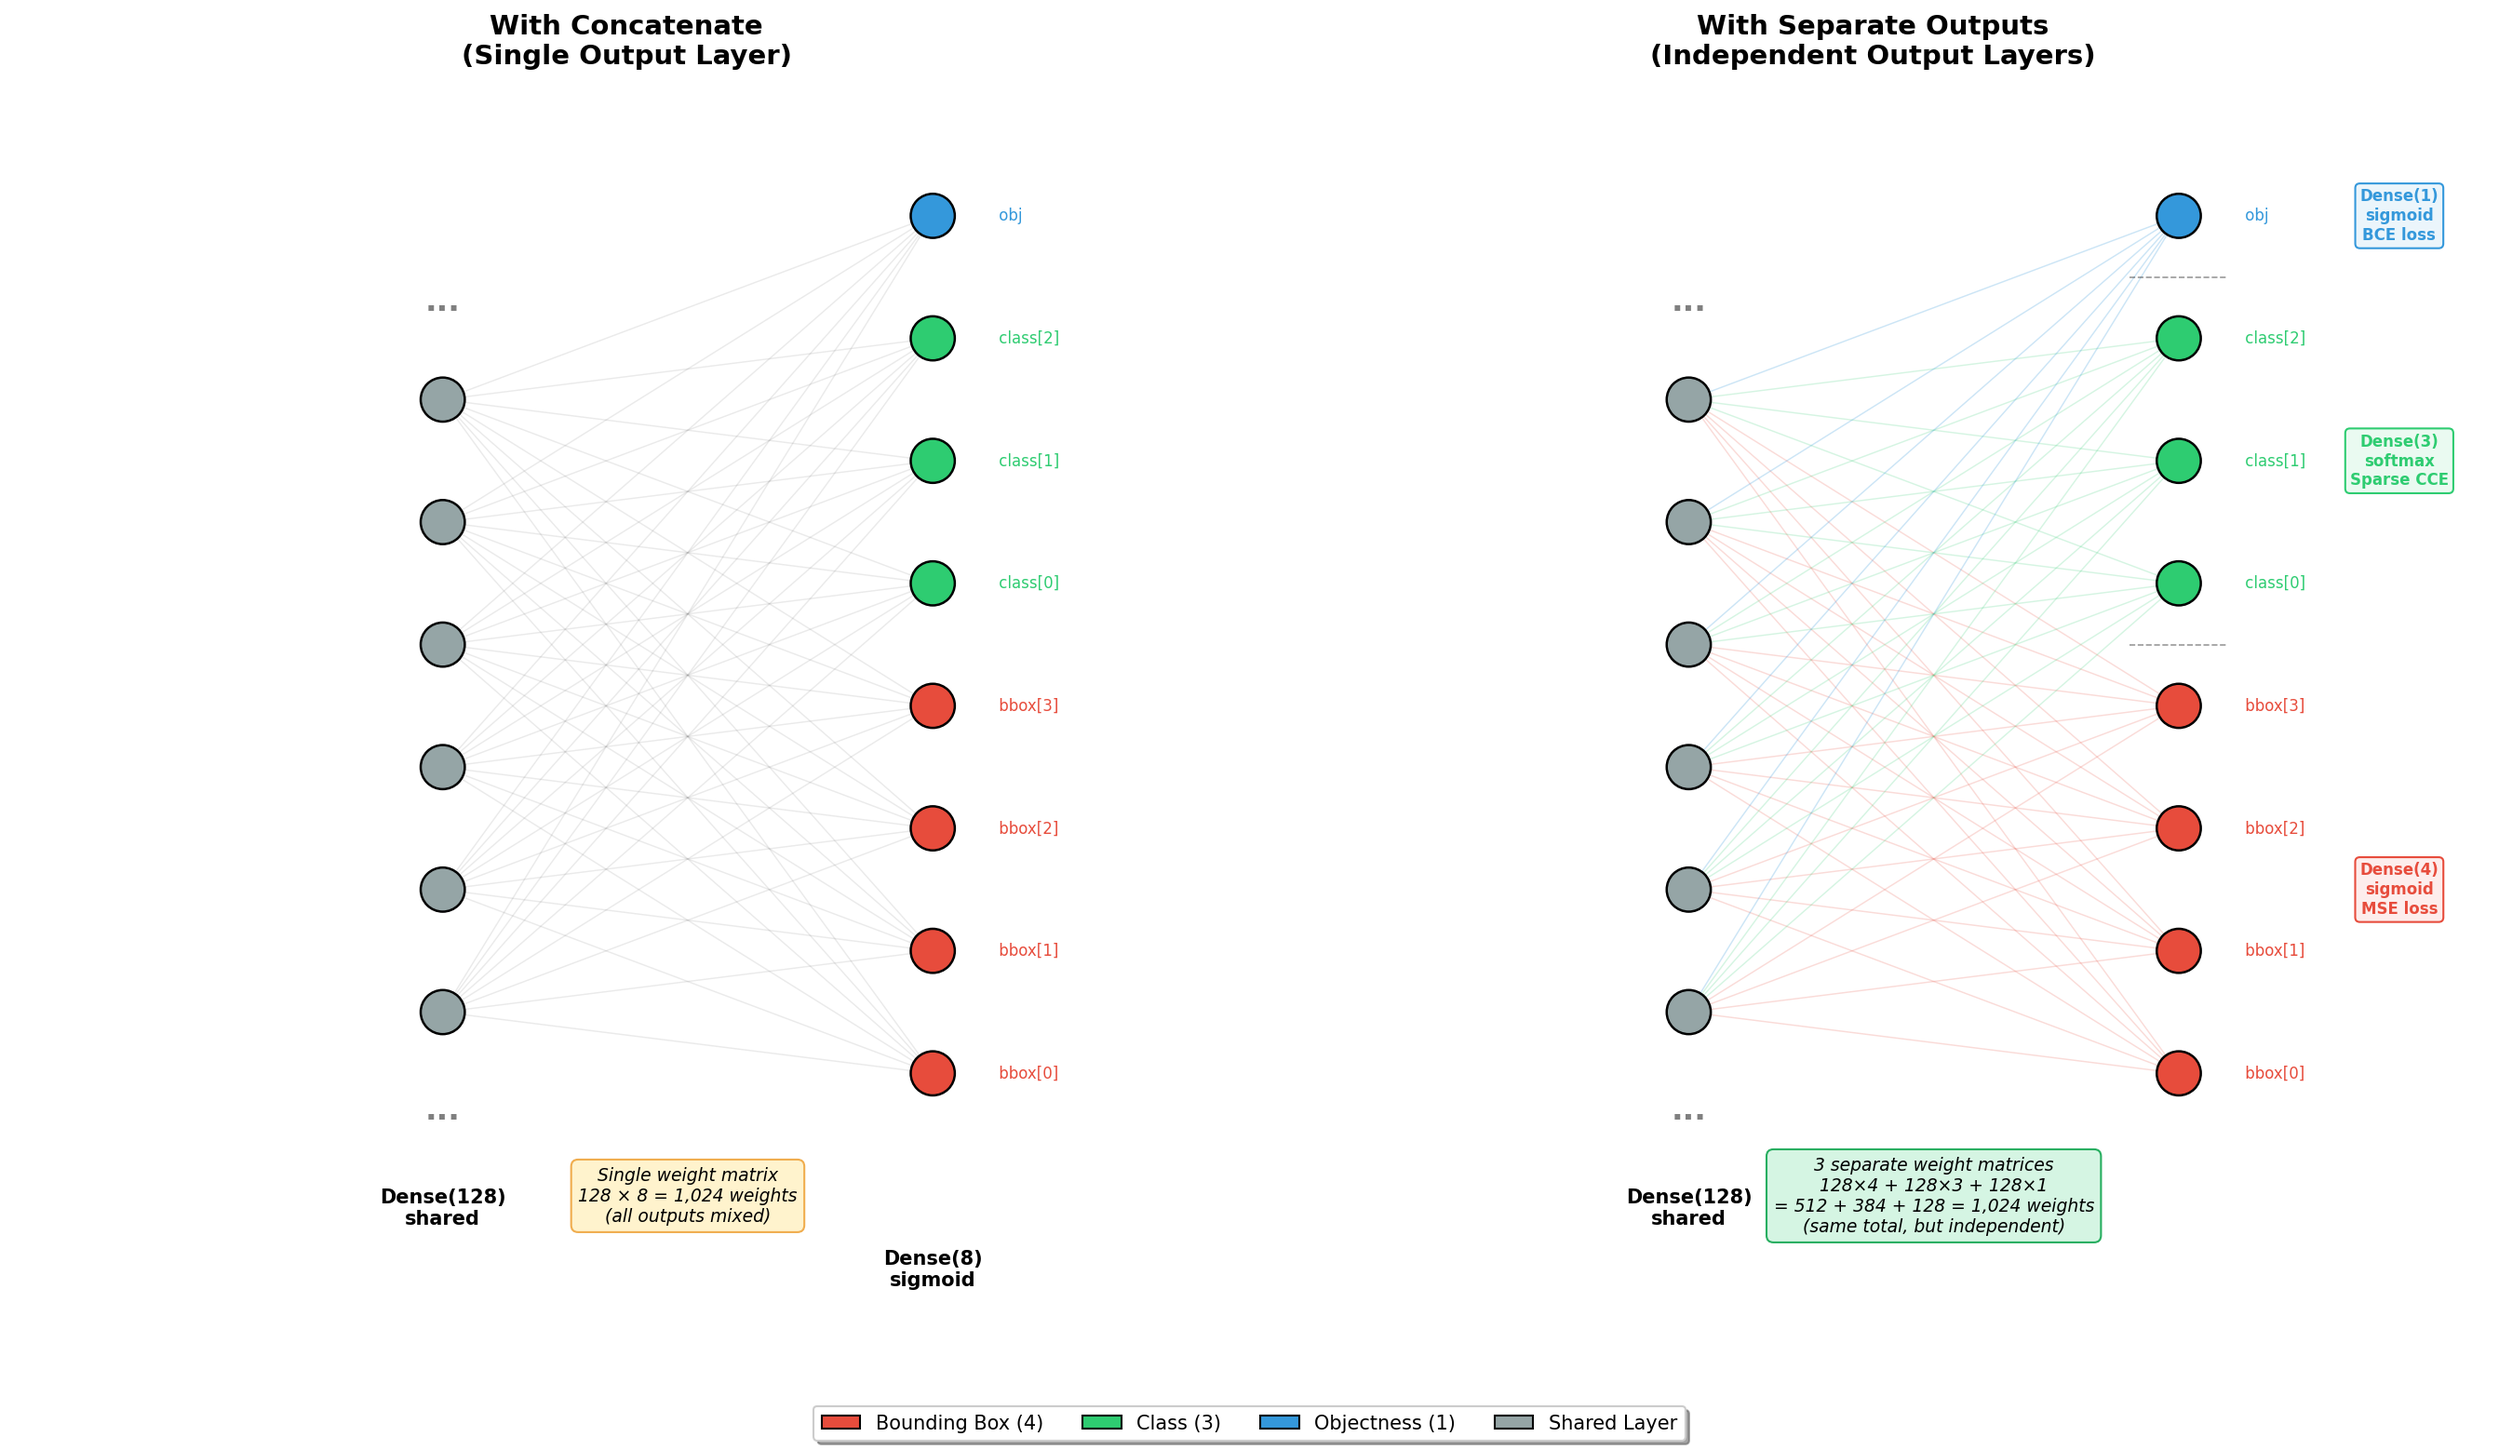
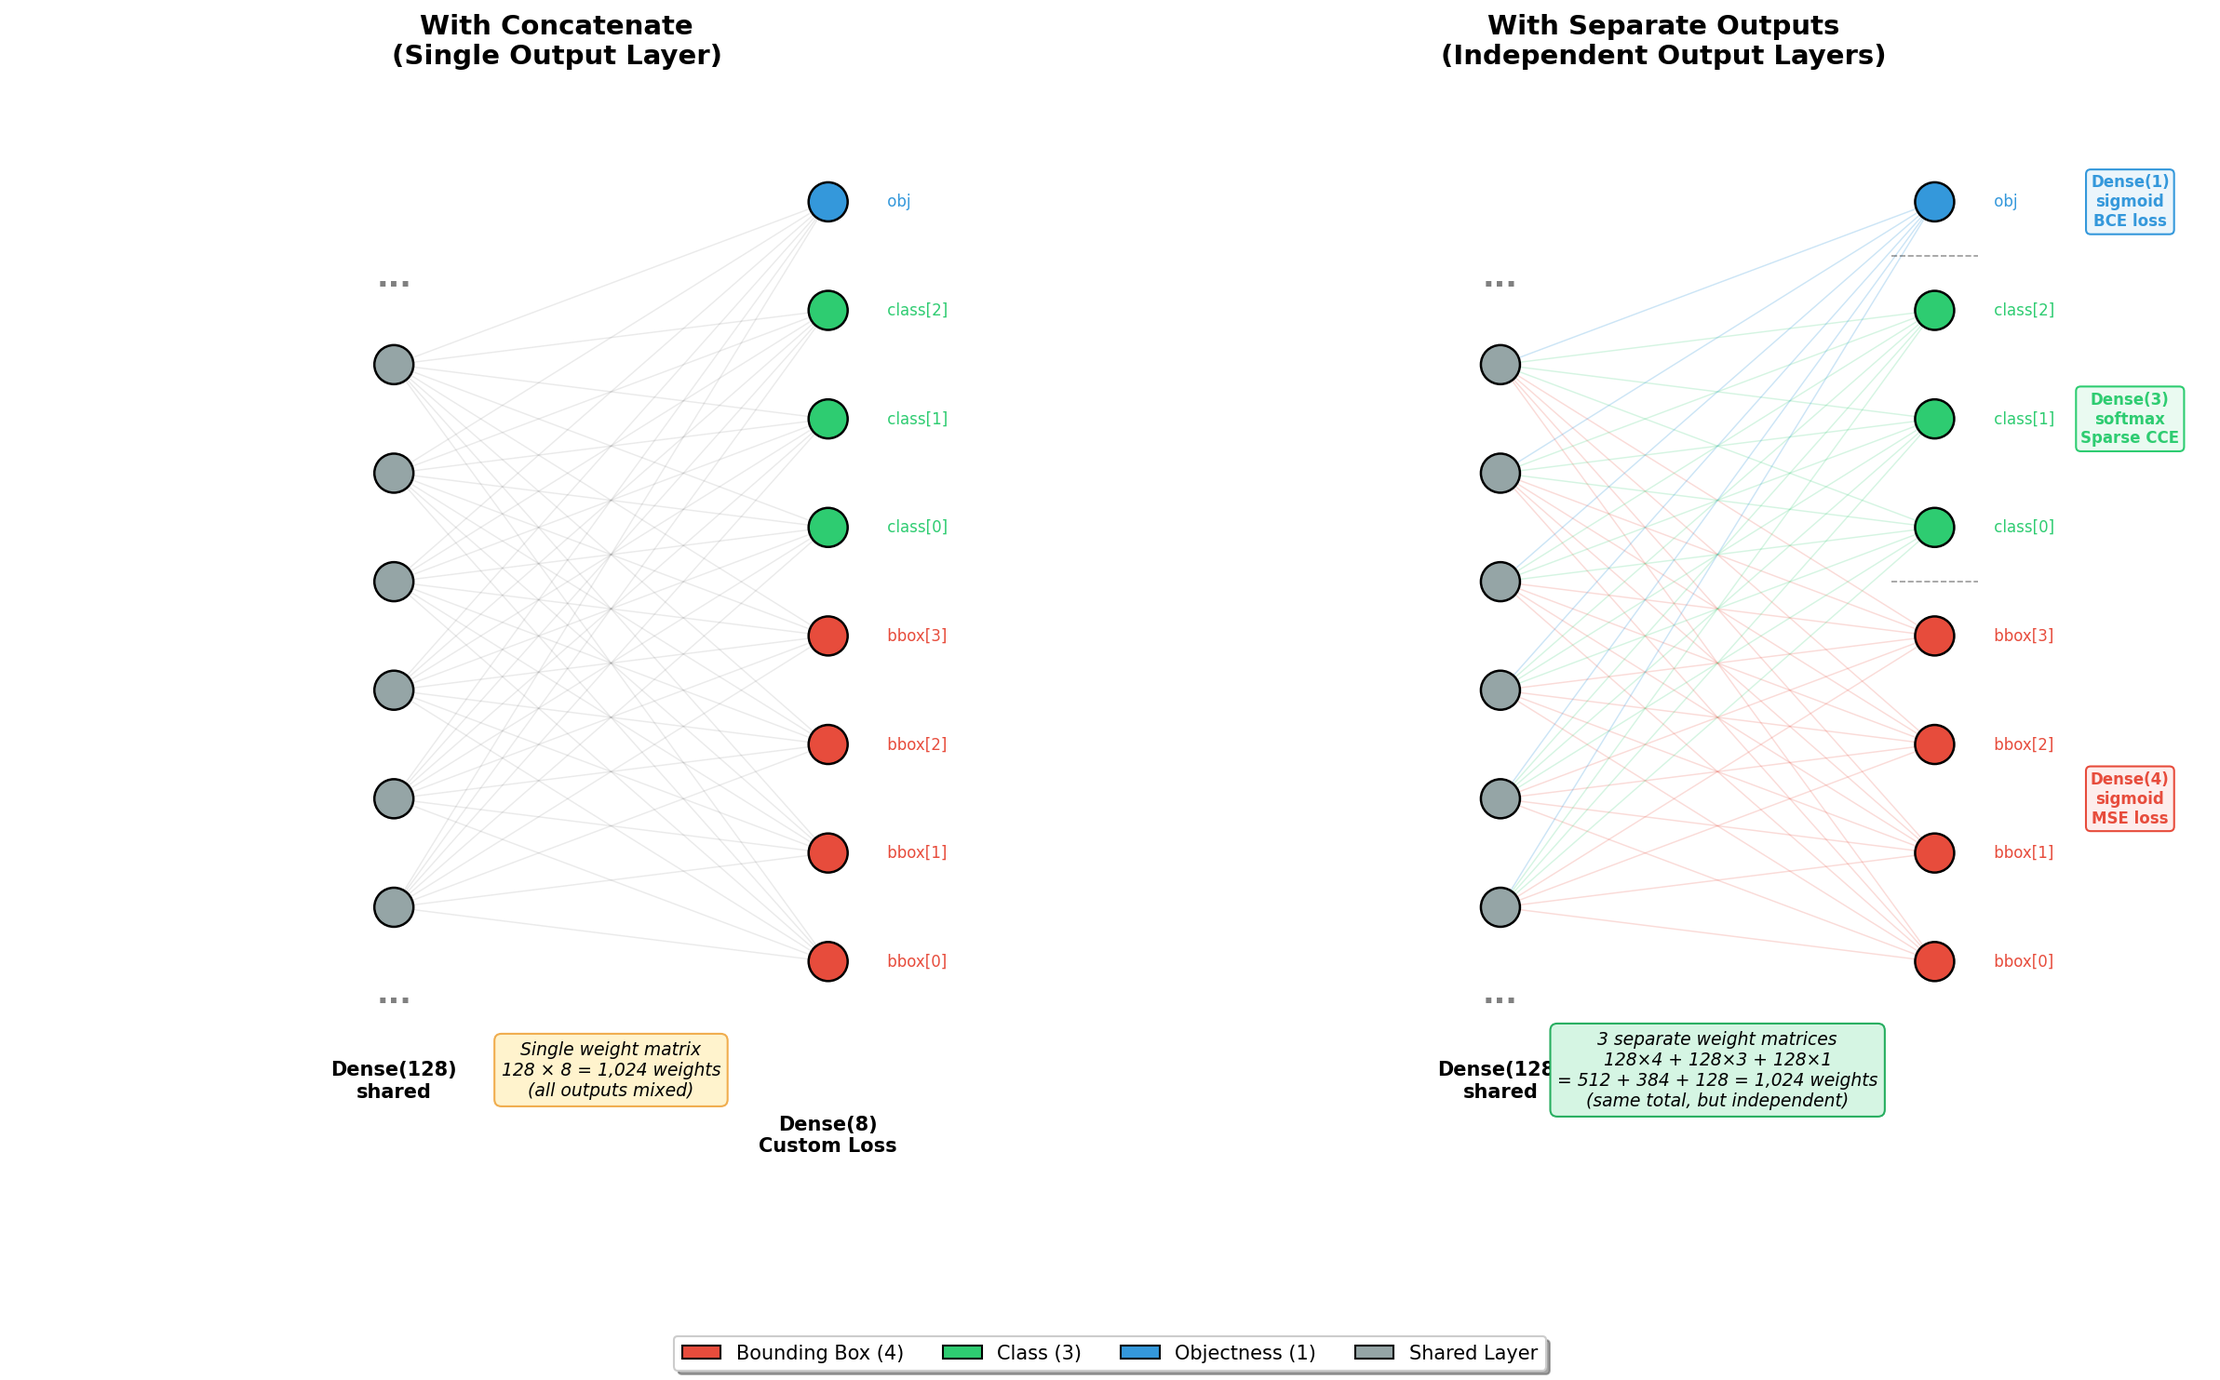
Visualize Splitted Architecture

diff --git a/visualize_split_architecture.py b/visualize_split_architecture.py
@@ -1,0 +1,270 @@
+"""Visualize: Separate Outputs (shared path) vs Split Architecture (independent paths)."""
+import matplotlib.pyplot as plt
+import matplotlib.patches as mpatches
+import numpy as np
+
+fig, (ax1, ax2) = plt.subplots(1, 2, figsize=(16, 12))
+
+# Colors
+COLOR_BBOX = '#E74C3C'
+COLOR_CLASS = '#2ECC71'
+COLOR_OBJ = '#3498DB'
+COLOR_SHARED = '#95A5A6'
+COLOR_VGG = '#8E44AD'       # purple for VGG
+COLOR_MIXED = '#F39C12'     # orange for mixed gradients
+
+def draw_neuron(ax, x, y, color, radius=0.16, label=None, fontsize=7):
+    circle = plt.Circle((x, y), radius, color=color, ec='black', linewidth=1.0, zorder=5)
+    ax.add_patch(circle)
+    if label:
+        ax.text(x, y, label, ha='center', va='center', fontsize=fontsize, fontweight='bold', zorder=6)
+
+def draw_connections(ax, x1_list, y1_list, x2_list, y2_list, color='gray', alpha=0.15, linewidth=0.5):
+    for x1, y1 in zip(x1_list, y1_list):
+        for x2, y2 in zip(x2_list, y2_list):
+            ax.plot([x1, x2], [y1, y2], color=color, alpha=alpha, linewidth=linewidth, zorder=1)
+
+def draw_layer_box(ax, x, y, w, h, color, label, fontsize=8):
+    rect = mpatches.FancyBboxPatch((x - w/2, y - h/2), w, h,
+                                     boxstyle='round,pad=0.1', facecolor=color, edgecolor='black',
+                                     linewidth=1.2, alpha=0.3, zorder=0)
+    ax.add_patch(rect)
+    ax.text(x, y + h/2 + 0.2, label, ha='center', va='bottom', fontsize=fontsize, fontweight='bold')
+
+# ============================================================
+# LEFT PANEL: Separate Outputs with SHARED hidden layers
+# ============================================================
+ax1.set_xlim(-1.5, 10)
+ax1.set_ylim(-2, 11)
+ax1.set_aspect('equal')
+ax1.axis('off')
+ax1.set_title('Separate Outputs\n(Shared Hidden Path)', fontsize=14, fontweight='bold', pad=15)
+
+# --- VGG block ---
+vgg_x = 0.5
+vgg_ys = [3.0, 4.0, 5.0, 6.0, 7.0]
+for y in vgg_ys:
+    draw_neuron(ax1, vgg_x, y, COLOR_VGG)
+ax1.text(vgg_x, 2.2, '...', ha='center', fontsize=14, color='gray', fontweight='bold')
+ax1.text(vgg_x, 7.8, '...', ha='center', fontsize=14, color='gray', fontweight='bold')
+ax1.text(vgg_x, 1.3, 'VGG16\n(6×6×512)', ha='center', fontsize=9, fontweight='bold')
+
+# --- Flatten ---
+flat_x = 2.5
+flat_ys = [2.5, 3.5, 4.5, 5.5, 6.5, 7.5]
+for y in flat_ys:
+    draw_neuron(ax1, flat_x, y, COLOR_SHARED)
+ax1.text(flat_x, 1.7, '...', ha='center', fontsize=14, color='gray', fontweight='bold')
+ax1.text(flat_x, 8.3, '...', ha='center', fontsize=14, color='gray', fontweight='bold')
+ax1.text(flat_x, 0.8, 'Flatten\n(18,432)', ha='center', fontsize=9, fontweight='bold')
+# VGG → Flatten connections
+draw_connections(ax1, [vgg_x]*len(vgg_ys), vgg_ys, [flat_x]*len(flat_ys), flat_ys,
+                color=COLOR_VGG, alpha=0.1, linewidth=0.5)
+
+# --- Dense(256) shared ---
+d256_x = 4.3
+d256_ys = [3.0, 4.0, 5.0, 6.0, 7.0]
+for y in d256_ys:
+    draw_neuron(ax1, d256_x, y, COLOR_SHARED)
+ax1.text(d256_x, 2.2, '...', ha='center', fontsize=14, color='gray', fontweight='bold')
+ax1.text(d256_x, 7.8, '...', ha='center', fontsize=14, color='gray', fontweight='bold')
+ax1.text(d256_x, 1.3, 'Dense(256)\nshared', ha='center', fontsize=9, fontweight='bold')
+# Flatten → Dense(256)
+draw_connections(ax1, [flat_x]*len(flat_ys), flat_ys, [d256_x]*len(d256_ys), d256_ys,
+                color=COLOR_MIXED, alpha=0.1, linewidth=0.5)
+
+# --- Dense(128) shared ---
+d128_x = 6.0
+d128_ys = [3.5, 4.5, 5.5, 6.5]
+for y in d128_ys:
+    draw_neuron(ax1, d128_x, y, COLOR_SHARED)
+ax1.text(d128_x, 2.7, '...', ha='center', fontsize=14, color='gray', fontweight='bold')
+ax1.text(d128_x, 7.3, '...', ha='center', fontsize=14, color='gray', fontweight='bold')
+ax1.text(d128_x, 1.3, 'Dense(128)\nshared', ha='center', fontsize=9, fontweight='bold')
+# Dense(256) → Dense(128)
+draw_connections(ax1, [d256_x]*len(d256_ys), d256_ys, [d128_x]*len(d128_ys), d128_ys,
+                color=COLOR_MIXED, alpha=0.12, linewidth=0.5)
+
+# --- Output heads ---
+out_x = 8.0
+bbox_ys = [2.0, 3.0, 4.0, 5.0]
+class_ys = [6.5, 7.5, 8.5]
+obj_ys = [10.0]
+
+# Connections: all shared → all outputs (mixed gradients)
+draw_connections(ax1, [d128_x]*len(d128_ys), d128_ys, [out_x]*len(bbox_ys), bbox_ys,
+                color=COLOR_BBOX, alpha=0.15, linewidth=0.6)
+draw_connections(ax1, [d128_x]*len(d128_ys), d128_ys, [out_x]*len(class_ys), class_ys,
+                color=COLOR_CLASS, alpha=0.15, linewidth=0.6)
+draw_connections(ax1, [d128_x]*len(d128_ys), d128_ys, [out_x]*len(obj_ys), obj_ys,
+                color=COLOR_OBJ, alpha=0.2, linewidth=0.6)
+
+for y in bbox_ys:
+    draw_neuron(ax1, out_x, y, COLOR_BBOX)
+for y in class_ys:
+    draw_neuron(ax1, out_x, y, COLOR_CLASS)
+for y in obj_ys:
+    draw_neuron(ax1, out_x, y, COLOR_OBJ)
+
+# Output labels
+ax1.text(out_x + 0.4, 3.5, 'bbox (4)\nMSE', va='center', fontsize=8, color=COLOR_BBOX, fontweight='bold')
+ax1.text(out_x + 0.4, 7.5, 'class (3)\nSparse CCE', va='center', fontsize=8, color=COLOR_CLASS, fontweight='bold')
+ax1.text(out_x + 0.4, 10.0, 'obj (1)\nBCE', va='center', fontsize=8, color=COLOR_OBJ, fontweight='bold')
+
+# Gradient flow annotation
+ax1.annotate('', xy=(2.5, 9.5), xytext=(6.0, 9.5),
+            arrowprops=dict(arrowstyle='<->', color=COLOR_MIXED, linewidth=2))
+ax1.text(4.25, 9.9, 'ALL gradients flow through\nthese shared layers (mixed)', ha='center', fontsize=8,
+         color=COLOR_MIXED, fontweight='bold',
+         bbox=dict(boxstyle='round,pad=0.3', facecolor='#FFF3CD', edgecolor=COLOR_MIXED))
+
+# ============================================================
+# RIGHT PANEL: Split Architecture (independent paths)
+# ============================================================
+ax2.set_xlim(-1.5, 10)
+ax2.set_ylim(-2, 11)
+ax2.set_aspect('equal')
+ax2.axis('off')
+ax2.set_title('Split Architecture\n(Independent Paths from VGG)', fontsize=14, fontweight='bold', pad=15)
+
+# --- VGG block ---
+vgg_x2 = 0.5
+vgg_ys2 = [3.0, 4.0, 5.0, 6.0, 7.0]
+for y in vgg_ys2:
+    draw_neuron(ax2, vgg_x2, y, COLOR_VGG)
+ax2.text(vgg_x2, 2.2, '...', ha='center', fontsize=14, color='gray', fontweight='bold')
+ax2.text(vgg_x2, 7.8, '...', ha='center', fontsize=14, color='gray', fontweight='bold')
+ax2.text(vgg_x2, 1.3, 'VGG16\n(6×6×512)', ha='center', fontsize=9, fontweight='bold')
+
+# ==================== LOCALIZATION PATH (top, red) ====================
+# Background box for localization path
+loc_bg = mpatches.FancyBboxPatch((1.5, -0.5), 6.8, 6.2,
+                                   boxstyle='round,pad=0.2', facecolor=COLOR_BBOX,
+                                   edgecolor=COLOR_BBOX, linewidth=2, alpha=0.06, zorder=0)
+ax2.add_patch(loc_bg)
+
+# Flatten
+flat_x2 = 2.5
+flat_ys2 = [1.0, 2.0, 3.0, 4.0]
+for y in flat_ys2:
+    draw_neuron(ax2, flat_x2, y, COLOR_BBOX, radius=0.14)
+ax2.text(flat_x2, 0.2, '...', ha='center', fontsize=12, color=COLOR_BBOX, fontweight='bold')
+ax2.text(flat_x2, 4.8, '...', ha='center', fontsize=12, color=COLOR_BBOX, fontweight='bold')
+ax2.text(flat_x2, -0.8, 'Flatten\n(18,432)', ha='center', fontsize=8, fontweight='bold', color=COLOR_BBOX)
+
+# VGG → Flatten
+draw_connections(ax2, [vgg_x2]*len(vgg_ys2), vgg_ys2, [flat_x2]*len(flat_ys2), flat_ys2,
+                color=COLOR_BBOX, alpha=0.12, linewidth=0.5)
+
+# Dense(256) for bbox
+d256_bbox_x = 4.0
+d256_bbox_ys = [1.5, 2.5, 3.5]
+for y in d256_bbox_ys:
+    draw_neuron(ax2, d256_bbox_x, y, COLOR_BBOX, radius=0.14)
+ax2.text(d256_bbox_x, 0.7, '...', ha='center', fontsize=12, color=COLOR_BBOX, fontweight='bold')
+ax2.text(d256_bbox_x, 4.3, '...', ha='center', fontsize=12, color=COLOR_BBOX, fontweight='bold')
+ax2.text(d256_bbox_x, -0.3, 'Dense(256)', ha='center', fontsize=8, fontweight='bold', color=COLOR_BBOX)
+draw_connections(ax2, [flat_x2]*len(flat_ys2), flat_ys2, [d256_bbox_x]*len(d256_bbox_ys), d256_bbox_ys,
+                color=COLOR_BBOX, alpha=0.12, linewidth=0.5)
+
+# Dense(128) for bbox
+d128_bbox_x = 5.5
+d128_bbox_ys = [2.0, 3.0]
+for y in d128_bbox_ys:
+    draw_neuron(ax2, d128_bbox_x, y, COLOR_BBOX, radius=0.14)
+ax2.text(d128_bbox_x, 1.2, '...', ha='center', fontsize=12, color=COLOR_BBOX, fontweight='bold')
+ax2.text(d128_bbox_x, 3.8, '...', ha='center', fontsize=12, color=COLOR_BBOX, fontweight='bold')
+ax2.text(d128_bbox_x, 0.3, 'Dense(128)', ha='center', fontsize=8, fontweight='bold', color=COLOR_BBOX)
+draw_connections(ax2, [d256_bbox_x]*len(d256_bbox_ys), d256_bbox_ys,
+                [d128_bbox_x]*len(d128_bbox_ys), d128_bbox_ys,
+                color=COLOR_BBOX, alpha=0.15, linewidth=0.5)
+
+# bbox output
+bbox_out_x = 7.5
+bbox_out_ys = [1.5, 2.5, 3.5, 4.5]
+for y in bbox_out_ys:
+    draw_neuron(ax2, bbox_out_x, y, COLOR_BBOX, radius=0.14)
+ax2.text(bbox_out_x + 0.4, 3.0, 'bbox (4)\nMSE', va='center', fontsize=8, color=COLOR_BBOX, fontweight='bold')
+draw_connections(ax2, [d128_bbox_x]*len(d128_bbox_ys), d128_bbox_ys,
+                [bbox_out_x]*len(bbox_out_ys), bbox_out_ys,
+                color=COLOR_BBOX, alpha=0.2, linewidth=0.6)
+
+# ==================== CLASSIFICATION PATH (bottom, green/blue) ====================
+# Background box for classification path
+cls_bg = mpatches.FancyBboxPatch((1.5, 5.5), 6.8, 5.0,
+                                   boxstyle='round,pad=0.2', facecolor=COLOR_CLASS,
+                                   edgecolor=COLOR_CLASS, linewidth=2, alpha=0.06, zorder=0)
+ax2.add_patch(cls_bg)
+
+# GAP
+gap_x = 2.5
+gap_ys = [7.0, 8.0]
+for y in gap_ys:
+    draw_neuron(ax2, gap_x, y, COLOR_CLASS, radius=0.14)
+ax2.text(gap_x, 6.2, '...', ha='center', fontsize=12, color=COLOR_CLASS, fontweight='bold')
+ax2.text(gap_x, 8.8, '...', ha='center', fontsize=12, color=COLOR_CLASS, fontweight='bold')
+ax2.text(gap_x, 9.6, 'GAP\n(512)', ha='center', fontsize=8, fontweight='bold', color=COLOR_CLASS)
+
+# VGG → GAP
+draw_connections(ax2, [vgg_x2]*len(vgg_ys2), vgg_ys2, [gap_x]*len(gap_ys), gap_ys,
+                color=COLOR_CLASS, alpha=0.12, linewidth=0.5)
+
+# Dense(128) for classification
+d128_cls_x = 4.5
+d128_cls_ys = [7.0, 8.0]
+for y in d128_cls_ys:
+    draw_neuron(ax2, d128_cls_x, y, COLOR_CLASS, radius=0.14)
+ax2.text(d128_cls_x, 6.2, '...', ha='center', fontsize=12, color=COLOR_CLASS, fontweight='bold')
+ax2.text(d128_cls_x, 8.8, '...', ha='center', fontsize=12, color=COLOR_CLASS, fontweight='bold')
+ax2.text(d128_cls_x, 9.6, 'Dense(128)', ha='center', fontsize=8, fontweight='bold', color=COLOR_CLASS)
+draw_connections(ax2, [gap_x]*len(gap_ys), gap_ys, [d128_cls_x]*len(d128_cls_ys), d128_cls_ys,
+                color=COLOR_CLASS, alpha=0.15, linewidth=0.5)
+
+# class output
+cls_out_x = 7.0
+cls_out_ys = [6.5, 7.5, 8.5]
+for y in cls_out_ys:
+    draw_neuron(ax2, cls_out_x, y, COLOR_CLASS, radius=0.14)
+ax2.text(cls_out_x + 0.4, 7.5, 'class (3)\nSparse CCE', va='center', fontsize=8, color=COLOR_CLASS, fontweight='bold')
+draw_connections(ax2, [d128_cls_x]*len(d128_cls_ys), d128_cls_ys,
+                [cls_out_x]*len(cls_out_ys), cls_out_ys,
+                color=COLOR_CLASS, alpha=0.2, linewidth=0.6)
+
+# objectness output
+obj_out_x = 7.0
+obj_out_ys = [10.0]
+for y in obj_out_ys:
+    draw_neuron(ax2, obj_out_x, y, COLOR_OBJ, radius=0.14)
+ax2.text(obj_out_x + 0.4, 10.0, 'obj (1)\nBCE', va='center', fontsize=8, color=COLOR_OBJ, fontweight='bold')
+draw_connections(ax2, [d128_cls_x]*len(d128_cls_ys), d128_cls_ys,
+                [obj_out_x]*len(obj_out_ys), obj_out_ys,
+                color=COLOR_OBJ, alpha=0.25, linewidth=0.6)
+
+# Gradient flow annotations
+ax2.text(4.5, 5.1, 'MSE gradients ONLY\n(localization path)', ha='center', fontsize=8,
+         color=COLOR_BBOX, fontweight='bold',
+         bbox=dict(boxstyle='round,pad=0.3', facecolor='#FDEDEC', edgecolor=COLOR_BBOX))
+
+ax2.text(4.5, 10.5, 'CCE + BCE gradients ONLY\n(classification path)', ha='center', fontsize=8,
+         color=COLOR_CLASS, fontweight='bold',
+         bbox=dict(boxstyle='round,pad=0.3', facecolor='#EAFAF1', edgecolor=COLOR_CLASS))
+
+# VGG shared annotation
+ax2.text(0.5, 0.3, 'VGG backbone:\nonly shared weights\n(frozen or fine-tuned)', ha='center', fontsize=8,
+         color=COLOR_VGG, fontweight='bold',
+         bbox=dict(boxstyle='round,pad=0.3', facecolor='#F5EEF8', edgecolor=COLOR_VGG))
+
+# Legend
+legend_elements = [
+    mpatches.Patch(facecolor=COLOR_VGG, edgecolor='black', label='VGG16 Backbone (shared)'),
+    mpatches.Patch(facecolor=COLOR_SHARED, edgecolor='black', label='Shared Hidden Layers'),
+    mpatches.Patch(facecolor=COLOR_BBOX, edgecolor='black', label='Localization Path (Flatten → bbox)'),
+    mpatches.Patch(facecolor=COLOR_CLASS, edgecolor='black', label='Classification Path (GAP → class + obj)'),
+]
+fig.legend(handles=legend_elements, loc='lower center', ncol=4, fontsize=10,
+           frameon=True, fancybox=True, shadow=True)
+
+plt.tight_layout(rect=[0, 0.06, 1, 1])
+plt.savefig('split_architecture_comparison.png', dpi=150, bbox_inches='tight', facecolor='white')
+print("Saved to split_architecture_comparison.png")
+plt.show()

diff --git a/visualize_architecture.py b/visualize_architecture.py
@@ -3,7 +3,7 @@ import matplotlib.pyplot as plt
 import matplotlib.patches as mpatches
 import numpy as np
 
-fig, (ax1, ax2) = plt.subplots(1, 2, figsize=(18, 10))
+fig, (ax1, ax2) = plt.subplots(1, 2, figsize=(16, 10))
 
 # Colors
 COLOR_BBOX = '#E74C3C'      # red
@@ -95,7 +95,7 @@ ax1.text(3.5, 0.0, 'Single weight matrix\n128 × 8 = 1,024 weights\n(all outputs
          ha='center', va='center', fontsize=9, style='italic',
          bbox=dict(boxstyle='round,pad=0.4', facecolor='#FFF3CD', edgecolor='#F0AD4E'))
 
-ax1.text(output_x, -0.6, 'Dense(8)\nsigmoid', ha='center', va='center', fontsize=10, fontweight='bold')
+ax1.text(output_x, -0.6, 'Dense(8)\nCustom Loss', ha='center', va='center', fontsize=10, fontweight='bold')
 
 # ============================================================
 # RIGHT PANEL: Separate Outputs approach
